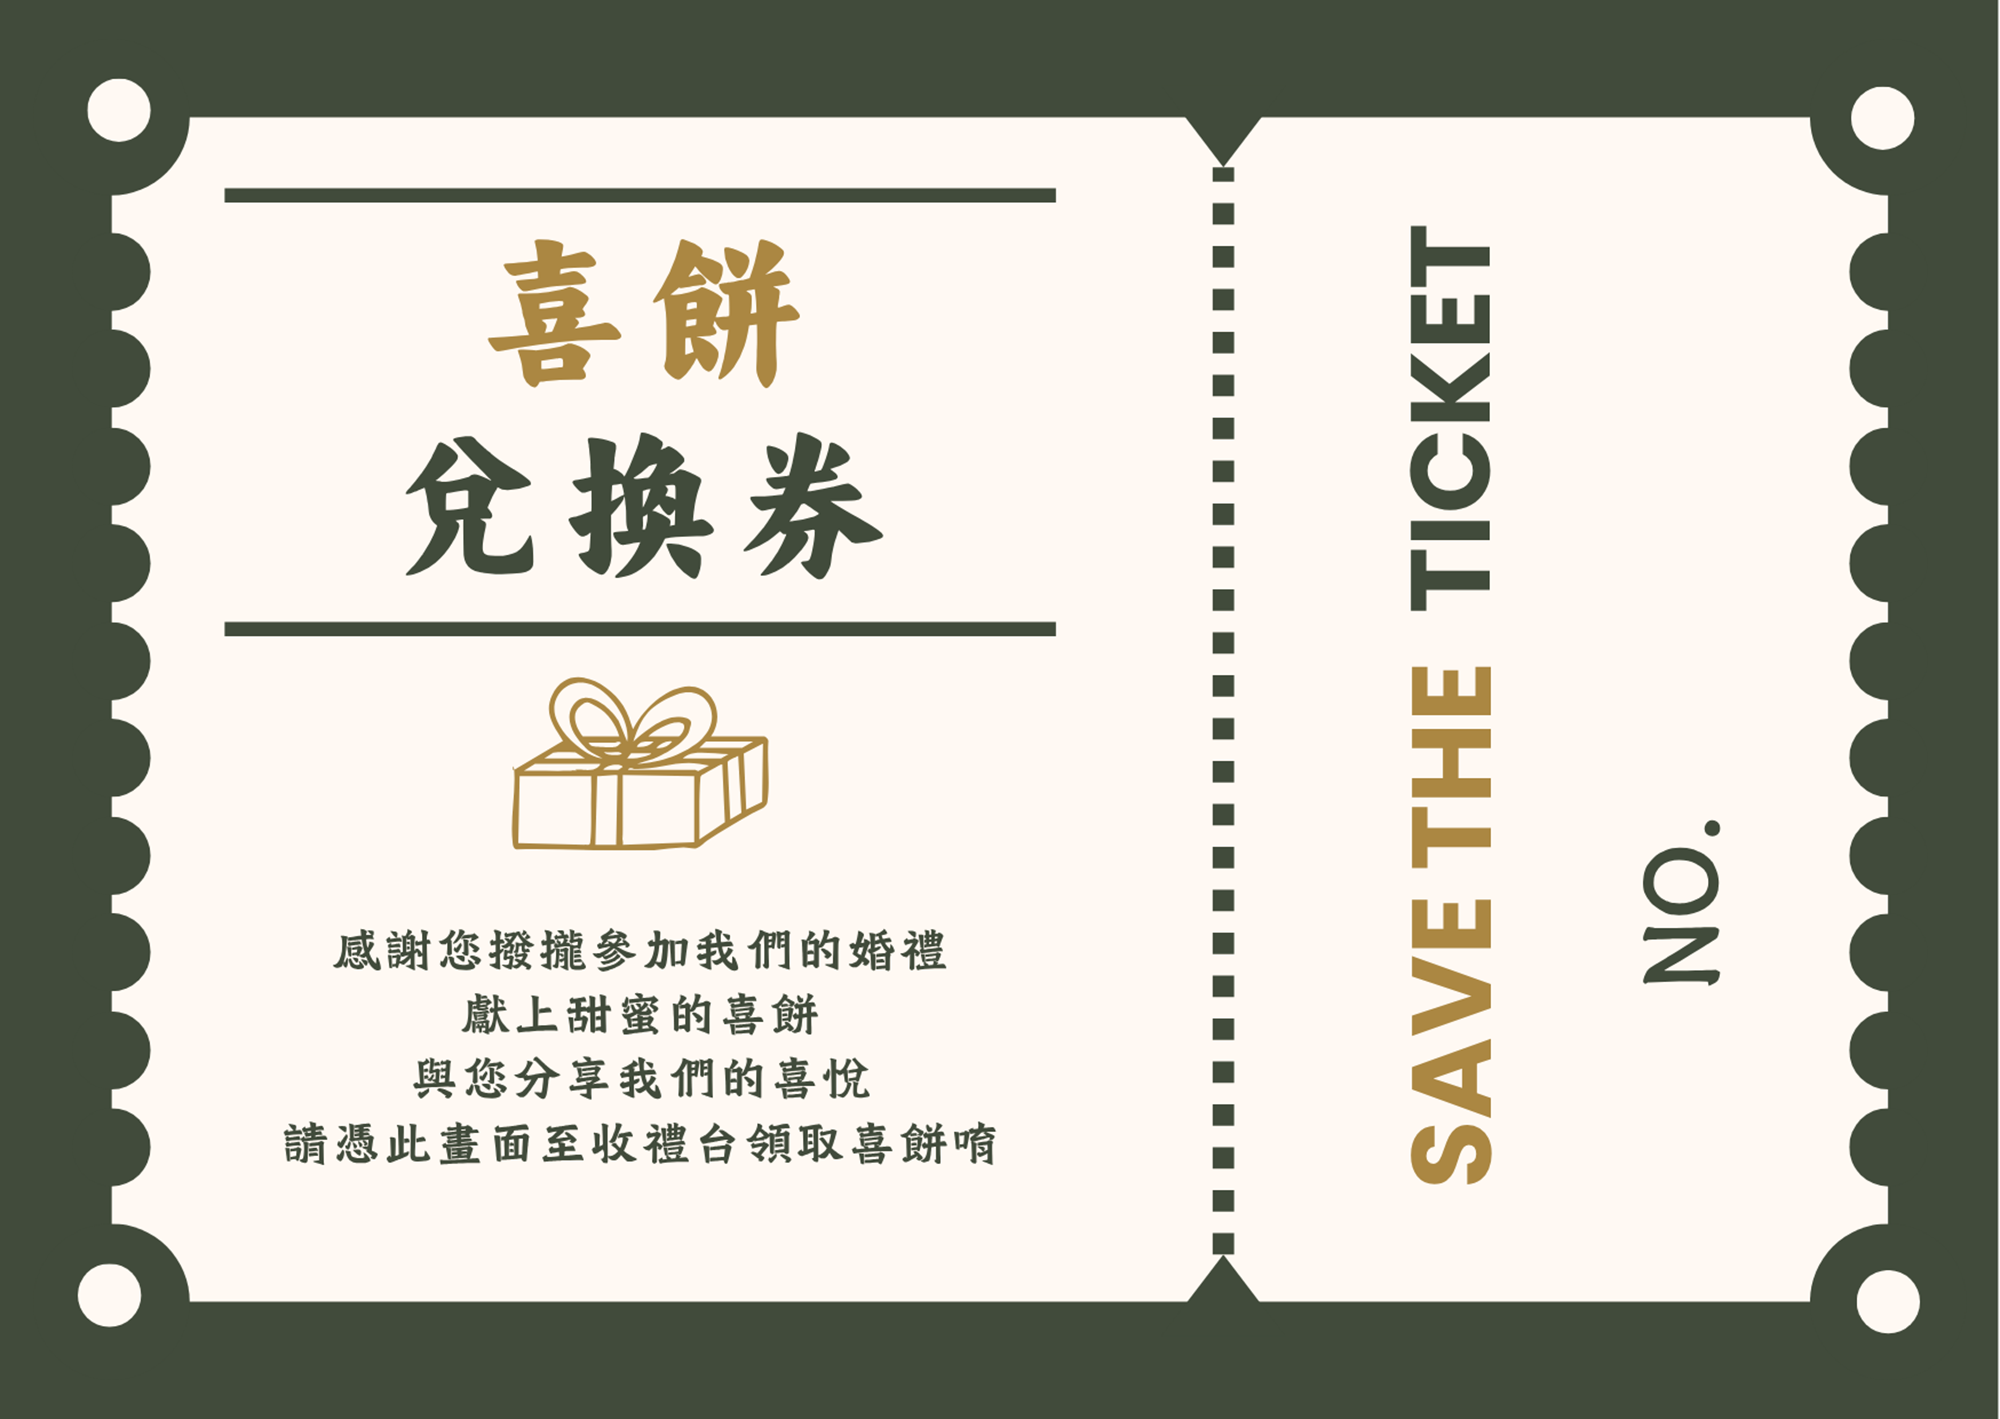
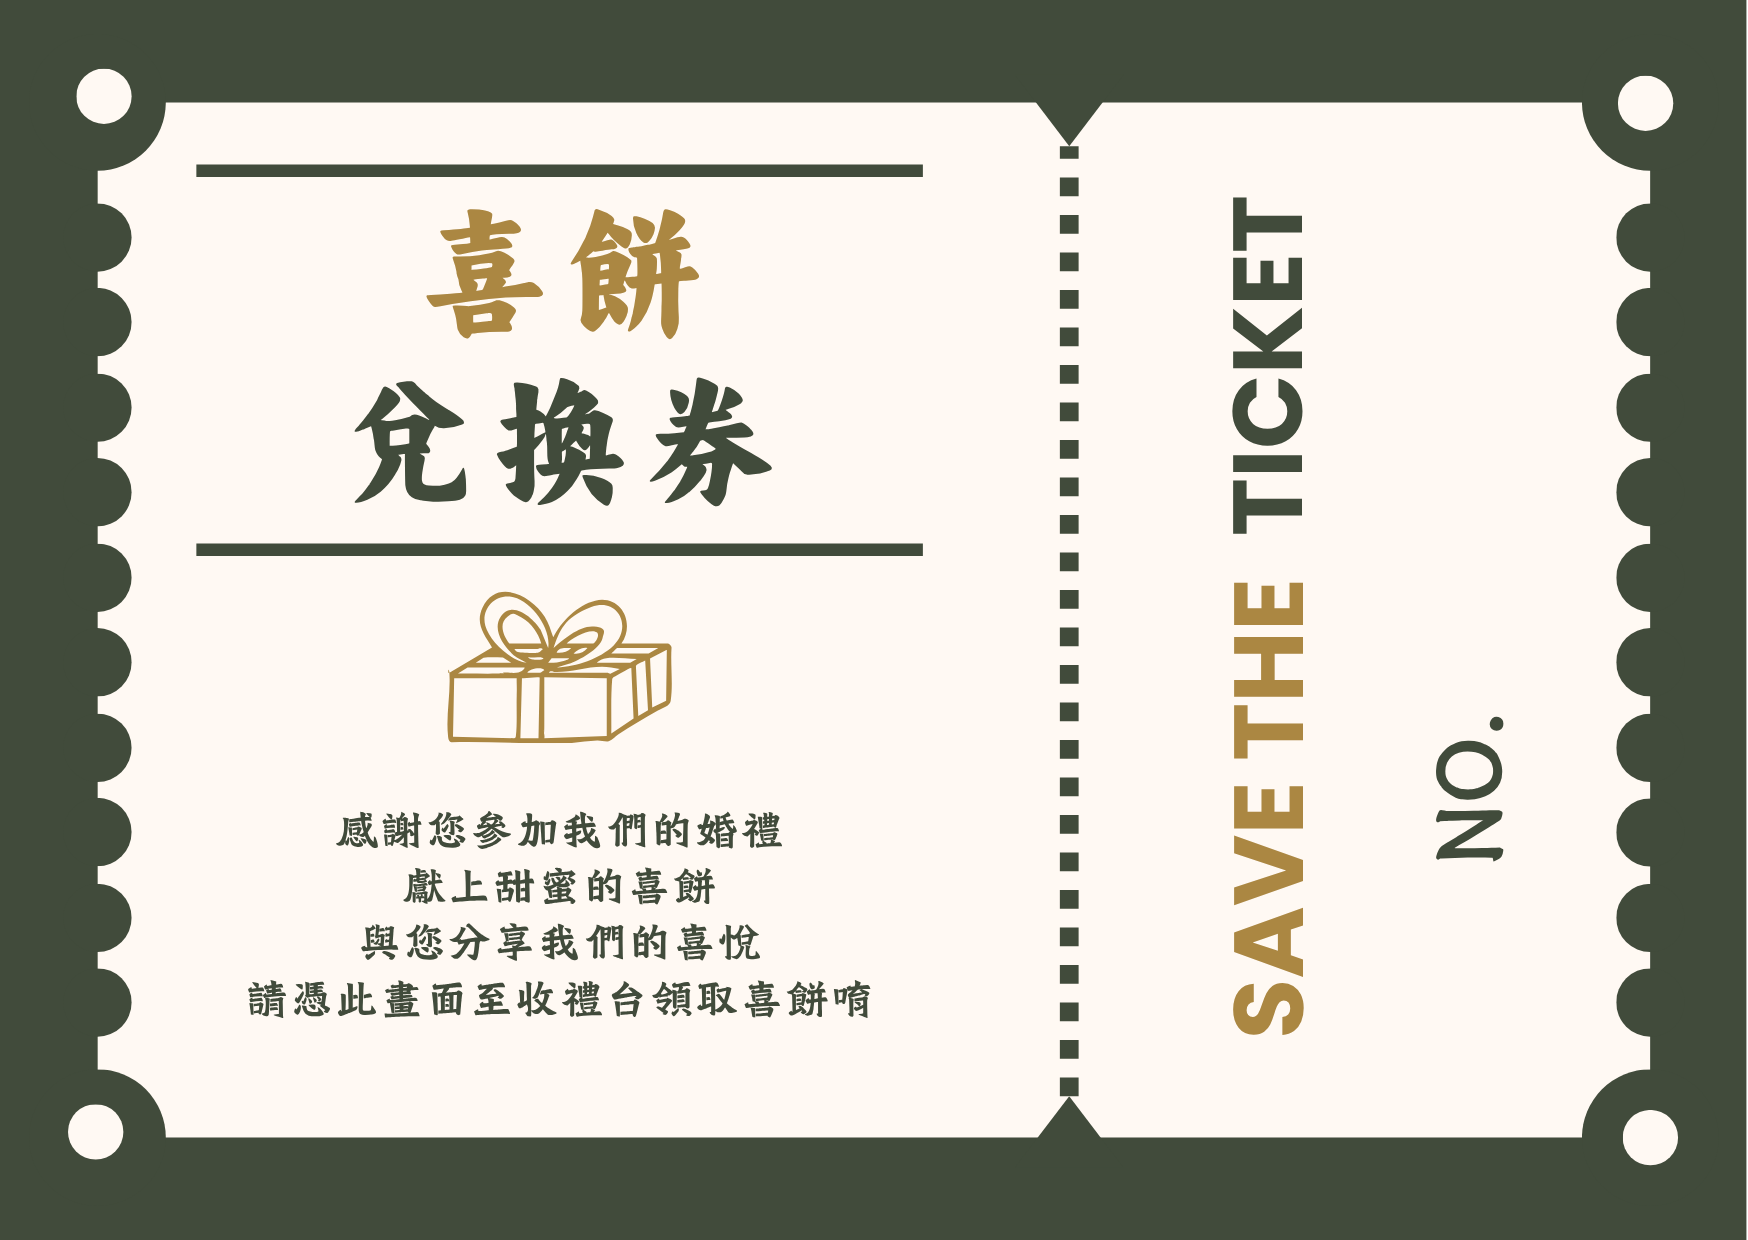
fix(voucher): 更新兌換券底圖，並修正相依的快取與版面問題
底圖由 2000x1419 換成 1748x1240（等比縮放，NO. 相對位置未變：
x 中心 84%、句點 y 57.8%，故券面編號的 CSS 定位不需重新校正）。

連帶處理三件事：
- 圖檔名稱未變，回訪賓客會續用舊快取 → img src 加上 ?v=20260720
- make_vouchers.py 的版面座標原為寫死的絕對像素（基準 2000x1419），
  換圖後會全部跑掉 → 改為依底圖尺寸換算的比例，日後換圖不再失效
  （驗證：以 2000x1419 代入可還原原本的 1683/821/92）
- .vt-hint「輕觸撕開」徽章原在右上，會蓋住券面「NO.」欄的兌換編號
  （手機上實測重疊 18x8px）→ 移至右下空白處

diff --git a/index.html b/index.html
@@ -29,7 +29,7 @@
 <link rel="preconnect" href="https://fonts.gstatic.com" crossorigin />
 <link href="https://fonts.googleapis.com/css2?family=Cormorant+Garamond:ital,wght@0,400;0,500;0,600;1,400;1,500&family=Roboto+Mono:wght@300;400;500&family=GFS+Didot&family=Noto+Sans+TC:wght@300;400;500&display=swap" rel="stylesheet" />
 <link rel="stylesheet" href="https://use.typekit.net/waq7ckh.css" />
-<link rel="stylesheet" href="styles.css?v=20260720d" />
+<link rel="stylesheet" href="styles.css?v=20260720f" />
 </head>
 <body>
 
@@ -438,11 +438,11 @@
 
   <figure class="voucher-card reveal">
     <div class="voucher-tear" id="voucherTear">
-      <img class="vt-img vt-main" src="Picture/pastry-voucher.png"
+      <img class="vt-img vt-main" src="Picture/pastry-voucher.png?v=20260720"
            alt="喜餅兌換券" width="2000" height="1419" loading="lazy" />
       <div class="vt-stub" id="voucherStub" role="button" tabindex="0"
            aria-label="撕開兌換券票根" data-i18n-aria="voucher.tear.aria">
-        <img class="vt-img" src="Picture/pastry-voucher.png" alt="" aria-hidden="true" />
+        <img class="vt-img" src="Picture/pastry-voucher.png?v=20260720" alt="" aria-hidden="true" />
         <!-- 券面「NO.」後方的兌換編號（直書）；由 voucher-live.js 依 Firestore 兌換碼填入 -->
         <span class="vt-no" id="voucherNo" aria-hidden="true"></span>
       </div>
@@ -530,7 +530,7 @@
   <a class="seeyou-admin" href="verify.html">婚禮管理後台</a>
 </footer>
 
-<script src="script.js?v=20260720d"></script>
+<script src="script.js?v=20260720f"></script>
 <!-- QR 產生器（賓客券專屬核銷 QR）；載入失敗時 voucher-live.js 會退回顯示文字連結 -->
 <script src="https://cdn.jsdelivr.net/gh/davidshimjs/qrcodejs@04f46c6a0708418cb7b96fc563eacae0fbf77674/qrcode.min.js"></script>
 <!-- 掃碼核銷即時狀態（Firebase）-->

diff --git a/styles.css b/styles.css
@@ -1495,7 +1495,8 @@ a:focus-visible, button:focus-visible {
 
 .vt-hint {
   position: absolute;
-  top: 7%;
+  /* 放右下：右上會壓到券面「NO.」欄的兌換編號（編號佔票根上半部）*/
+  bottom: 9%;
   right: 5%;
   z-index: 3;
   font-family: var(--mono);

diff --git a/data/make_vouchers.py b/data/make_vouchers.py
@@ -33,34 +33,50 @@ OUTDIR = os.path.join(ROOT, "vouchers")
 # 預設字體：華文楷體（可畫潮牌楷體為 Canva 專有字體、無法取得，以此為替代）
 DEFAULT_FONT = r"C:\Windows\Fonts\STKAITI.TTF"
 
-# ---- 版面參數（量測自底圖）----
-CENTER_X = 1683      # NO. 文字水平中心
-ANCHOR_Y = 821       # NO. 句點上緣 → 號碼置於其上方
-GAP = 24             # 句點與第一碼之間的間距
+# ---- 版面參數 ----
+# 以「佔底圖寬/高的比例」表示（量測自 2000x1419 版底圖）。
+# 改用比例而非絕對像素，是為了讓底圖換成不同解析度時仍能正確對位——
+# 2026-07-20 底圖由 2000x1419 換成 1748x1240 時，原本寫死的像素座標就會全部跑掉。
+R_CENTER_X = 0.8415  # NO. 文字水平中心（佔寬比例）
+R_ANCHOR_Y = 0.5786  # NO. 句點上緣（佔高比例）→ 號碼置於其上方
+R_GAP      = 0.0169  # 句點與第一碼之間的間距（佔高比例）
+R_FONT     = 0.0648  # 字級（佔高比例）
+R_TRACKING = 0.0113  # 字距（佔高比例）
+
 COLOR = (65, 75, 59, 255)   # 深綠（與 NO. 同色）
-FONT_SIZE = 92
-TRACKING = 16        # 字距
 
 
-def render_code(template_img, code, font):
+def layout_for(img):
+    """依底圖實際尺寸換算出本次要用的絕對像素版面參數。"""
+    w, h = img.size
+    return {
+        "center_x": round(R_CENTER_X * w),
+        "anchor_y": round(R_ANCHOR_Y * h),
+        "gap":      round(R_GAP * h),
+        "font":     round(R_FONT * h),
+        "tracking": round(R_TRACKING * h),
+    }
+
+
+def render_code(template_img, code, font, lay):
     """把 code 直書套到底圖右側 NO. 後方，回傳新圖（不改原圖）。"""
     im = template_img.copy()
     chs = list(str(code))
     ascent, descent = font.getmetrics()
     text_h = ascent + descent
-    total_w = sum(font.getlength(c) for c in chs) + TRACKING * (len(chs) - 1)
+    total_w = sum(font.getlength(c) for c in chs) + lay["tracking"] * (len(chs) - 1)
 
     layer = Image.new("RGBA", (int(total_w) + 20, text_h + 20), (0, 0, 0, 0))
     d = ImageDraw.Draw(layer)
     x = 10.0
     for c in chs:
         d.text((x, 10), c, font=font, fill=COLOR)
-        x += font.getlength(c) + TRACKING
+        x += font.getlength(c) + lay["tracking"]
 
     rot = layer.rotate(90, expand=True)      # 逆時針 90° → 與 NO. 同為由下往上讀
     rw, rh = rot.size
-    bottom = ANCHOR_Y - GAP
-    left = CENTER_X - rw // 2
+    bottom = lay["anchor_y"] - lay["gap"]
+    left = lay["center_x"] - rw // 2
     top = bottom - rh
     im.alpha_composite(rot, (int(left), int(top)))
     return im
@@ -105,14 +121,15 @@ def main():
     if not os.path.exists(TEMPLATE):
         sys.exit("找不到底圖：%s" % TEMPLATE)
 
-    font = ImageFont.truetype(font_path, FONT_SIZE)
     template = Image.open(TEMPLATE).convert("RGBA")
+    lay = layout_for(template)               # 依底圖實際尺寸換算版面
+    font = ImageFont.truetype(font_path, lay["font"])
     guests = load_guests()
     os.makedirs(OUTDIR, exist_ok=True)
 
     n = 0
     for name, code in guests:
-        img = render_code(template, code, font)
+        img = render_code(template, code, font, lay)
         fn = os.path.join(OUTDIR, "喜餅兌換券_%s_%s.png" % (safe_filename(name), code))
         img.convert("RGB").save(fn)
         n += 1
